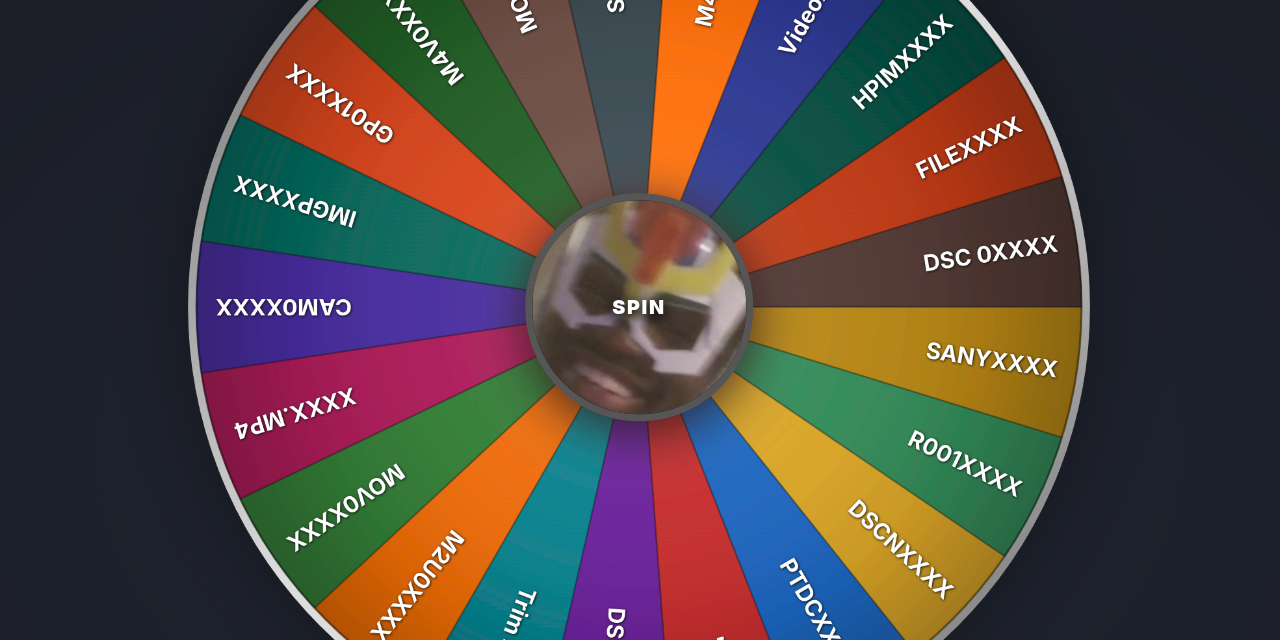
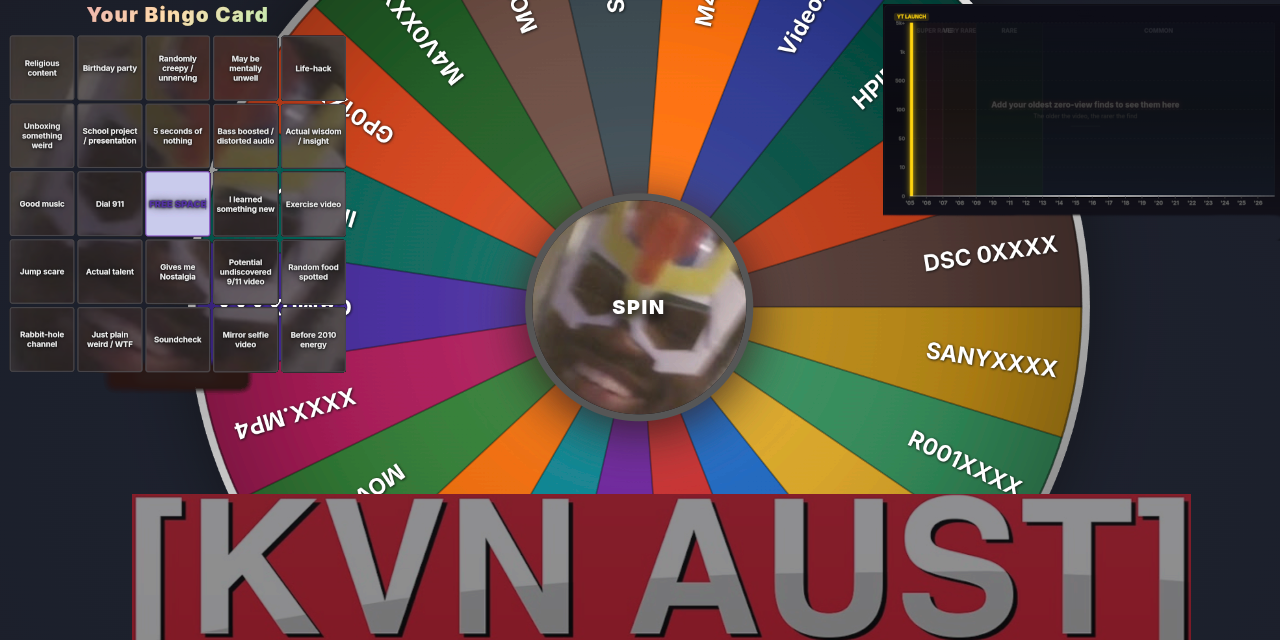
Replace all screenshots: 11 new images in user flow order
01-landing, 02-bingo-setup, 03-settings, 04-bingo-reveal,
05-spinner, 06-deep-dive, 07-format-selected, 08-result-screen,
09-bingo-live, 10-records-timeline, 11-find-detail

README updated with all 11 in gameplay order with descriptive
alt text and captions.

diff --git a/README.md b/README.md
@@ -53,43 +53,58 @@ KVN AUST's **YouTube Recycle Bin** series explores this massive graveyard of for
 ## Screenshots
 
 <p align="center">
-  <img src="screenshots/records-timeline.png" width="720" alt="KVN AUST Recycle Bin - Oldest Zero-View Record Timeline">
-  <br><sub>Oldest Zero-View Record — track your rarest finds on a timeline</sub>
+  <img src="screenshots/01-landing.png" width="720" alt="KVN AUST Recycle Bin - Start Screen">
+  <br><sub>Start Screen — YouTube's Recycle Bin</sub>
 </p>
 
 <p align="center">
-  <img src="screenshots/cloud-save.png" width="720" alt="KVN AUST Recycle Bin - Cloud Save">
-  <br><sub>Cloud Save — sync game data across devices</sub>
+  <img src="screenshots/02-bingo-setup.png" width="720" alt="KVN AUST Recycle Bin - Bingo Category Setup">
+  <br><sub>Bingo Setup — 101 customizable categories</sub>
 </p>
 
 <p align="center">
-  <img src="screenshots/bingo-export.png" width="720" alt="KVN AUST Recycle Bin Bingo Card Export">
-  <br><sub>Bingo Card Export Preview</sub>
+  <img src="screenshots/03-settings.png" width="720" alt="KVN AUST Recycle Bin - Settings">
+  <br><sub>Settings — channel images, spinner options, daub colors</sub>
 </p>
 
 <p align="center">
-  <img src="screenshots/bingo-card.png" width="720" alt="KVN AUST Recycle Bin Bingo Card with Mosaic">
-  <br><sub>Bingo Card with Mosaic & Daub Stamps</sub>
+  <img src="screenshots/04-bingo-reveal.png" width="720" alt="KVN AUST Recycle Bin - Bingo Card Reveal">
+  <br><sub>Bingo Card Reveal — slide puzzle with mosaic</sub>
 </p>
 
 <p align="center">
-  <img src="screenshots/spinner.png" width="720" alt="KVN AUST Recycle Bin Format Spinner Wheel">
-  <br><sub>3D Format Spinner — 60+ default filename formats</sub>
+  <img src="screenshots/05-spinner.png" width="720" alt="KVN AUST Recycle Bin - Format Spinner Wheel">
+  <br><sub>3D Format Spinner — 170+ formats from the community map</sub>
 </p>
 
 <p align="center">
-  <img src="screenshots/format-selected.png" width="720" alt="KVN AUST Recycle Bin Format Selected">
-  <br><sub>Format Selected — click anywhere to continue</sub>
+  <img src="screenshots/06-deep-dive.png" width="720" alt="KVN AUST Recycle Bin - Deep Dive Mode">
+  <br><sub>Deep Dive Mode — underwater theme, Before:2010 filter, nautical sounds</sub>
 </p>
 
 <p align="center">
-  <img src="screenshots/number-gen.png" width="720" alt="KVN AUST Recycle Bin Number Generator">
-  <br><sub>Rainbow Number Generator</sub>
+  <img src="screenshots/07-format-selected.png" width="720" alt="KVN AUST Recycle Bin - Format Selected">
+  <br><sub>Format Selected — rainbow reveal animation</sub>
 </p>
 
 <p align="center">
-  <img src="screenshots/result-screen.png" width="720" alt="KVN AUST Recycle Bin Search and Rate">
-  <br><sub>Search YouTube, Rate & Save</sub>
+  <img src="screenshots/08-result-screen.png" width="720" alt="KVN AUST Recycle Bin - Search Rate Save">
+  <br><sub>Search, Rate & Save — auto-fetch video stats, share to Discord</sub>
+</p>
+
+<p align="center">
+  <img src="screenshots/09-bingo-live.png" width="720" alt="KVN AUST Recycle Bin - Live Bingo Card with Daubs">
+  <br><sub>Live Bingo Card — progressive daub stamps that glow near BINGO</sub>
+</p>
+
+<p align="center">
+  <img src="screenshots/10-records-timeline.png" width="720" alt="KVN AUST Recycle Bin - Records Timeline">
+  <br><sub>Oldest Zero-View Records — community leaderboard with rarity tiers</sub>
+</p>
+
+<p align="center">
+  <img src="screenshots/11-find-detail.png" width="720" alt="KVN AUST Recycle Bin - Find Detail Modal">
+  <br><sub>Find Detail — click any dot for video info, channel stats, attribution</sub>
 </p>
 
 ---
